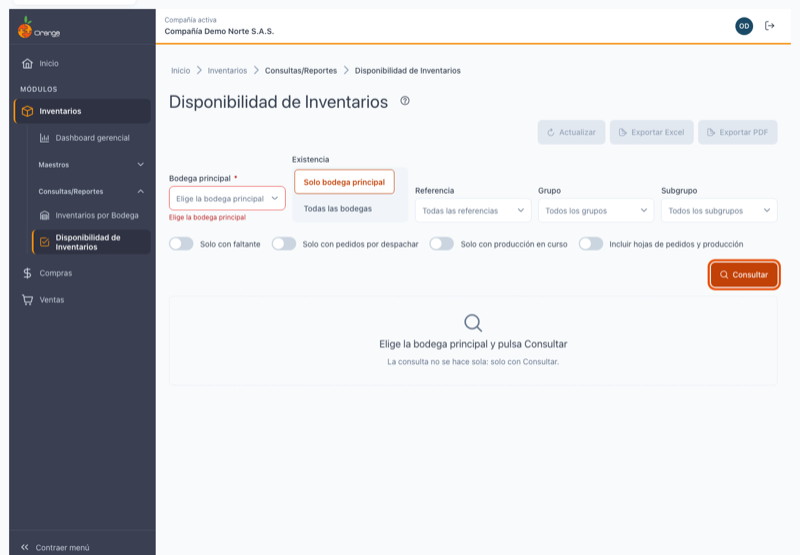
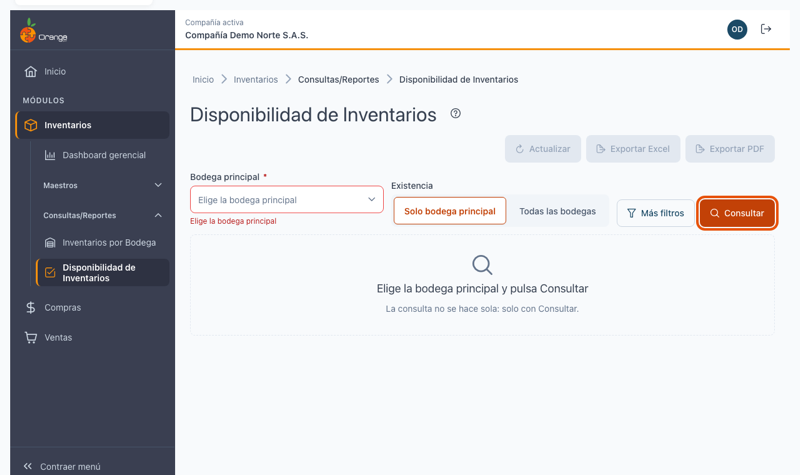
docs(inventarios): manual de Disponibilidad reorganizado para la vista dividida, congelados ocultos por defecto y 6 capturas verificadas

diff --git a/v2026/inventarios/consultas/disponibilidad.md b/v2026/inventarios/consultas/disponibilidad.md
@@ -5,256 +5,167 @@
 # 📦 Disponibilidad de Inventarios
 
 ![Static Badge](https://img.shields.io/badge/Tipo-Consulta-red)
-![Static Badge](https://img.shields.io/badge/Module-Inventarios-orange)
-![Static Badge](https://img.shields.io/badge/Submodule-Consultas%2FReportes-blue)
-![Static Badge](https://img.shields.io/badge/Opcion-Disponibilidad%20de%20Inventarios-green)
+![Static Badge](https://img.shields.io/badge/Modulo-Inventarios-orange)
+![Static Badge](https://img.shields.io/badge/Submodulo-Consultas%2FReportes-blue)
 ![Static Badge](https://img.shields.io/badge/Version-V2026-purple)
 
-![Static Badge](https://img.shields.io/badge/Actualizacion-20261007-yellow)
+---
+
+## 🎯 Qué es y para qué sirve
+
+Muestra, por referencia y por variante (talla, color, etc.), **cuánto hay hoy, cuánto está comprometido en pedidos, cuánto viene en producción y cuánto se puede ofrecer**. Reúne en una sola pantalla la existencia, los pedidos pendientes de despachar y la producción en tránsito.
+
+**Cómo se calcula:**
+
+- **Disponible hoy** = Existencia − Por despachar
+- **Disponible proyectado** = Disponible hoy + En producción
 
 ---
 
-## 📋 Descripción
+## ℹ Antes de empezar
 
-Consulta que muestra **cuánto hay de cada referencia (por talla, color, etc.) en la bodega principal hoy, cuánto está comprometido con pedidos sin despachar, cuánto viene en producción, y por tanto qué puedo ofrecer ahora y qué podré ofrecer cuando termine la fabricación**. Es de **solo lectura**: no crea ni cambia información. Se puede abrir desde el maestro de **Referencias** con la acción "Ver disponibilidad", filtrada por esa referencia.
-
-El informe incluye **solo referencias que manejan inventario**. Los pedidos siguen las reglas del Reporte de Pedidos legado.
-
-> 📘 Funciona como las demás tablas: ver [Manejo general de la información](../../Generales/manejo-general-informacion.md).
-
-> 💡 Cada pestaña del navegador trabaja con **una compañía**. El nombre de la compañía se ve en la barra superior.
-
----
-
-## 🎯 Acceso
-
-### Desde Inventarios
-
-1. En el menú principal, haga clic en **Inventarios**.
-2. En **Consultas/Reportes**, haga clic en **Disponibilidad de Inventarios**.
-
-### Desde el maestro de Referencias
-
-En **Referencias**, cada referencia tiene una acción **Ver disponibilidad** (ícono de cuadro con check). Al pulsarla, la consulta se abre filtrada por esa referencia. Si ya tiene bodega elegida, consulta automáticamente y abre el detalle. Si no, pide elegir bodega y luego consulta.
-
-**Permisos:**
-
-| Permiso | Qué permite |
-|---------|-------------|
-| **Consultar** | Ver la pantalla y consultar. Sin él, "No tienes acceso a esta consulta". |
-| **Exportar** | Ver botones **Exportar Excel** y **Exportar PDF**. |
+| Requisito | Detalle |
+|-----------|---------|
+| **Permiso** | Opción **Disponibilidad de Inventarios**: **Consultar** (obligatorio) y **Exportar** (opcional). |
+| **Bodega principal** | Es obligatoria. El sistema recuerda la última que eligió. |
+| **Qué referencias aparecen** | Solo las que **manejan inventario**. |
+| **Información de ahora** | El informe es de este momento, no de una fecha pasada. La pantalla indica la hora del cálculo. |
 
 ---
 
-## 🖥 Pantalla principal
+## 3⃣ Cómo consultar
 
-Al entrar, la pantalla no muestra datos: elija la bodega principal y pulse **Consultar**.
+![Pantalla inicial con la bodega principal, la existencia y los filtros](../recursos/img/disponibilidad/01-inicial.png)
 
-![Pantalla inicial](../recursos/img/disponibilidad/01-inicial.png)
+1. Elija la **Bodega principal**.
+2. Elija la **Existencia**: **Solo bodega principal** (por defecto) o **Todas las bodegas**.
+3. Si lo necesita, abra **Más filtros**: referencia, grupo y subgrupo; **Solo con faltante**, **Solo con pedidos por despachar**, **Solo con producción en curso**; y **Qué se cuenta** (ver más abajo).
+4. Pulse **Consultar**.
 
-| Elemento | Para qué sirve |
-|----------|----------------|
-| **?** (junto al título) | Abre esta ayuda en un panel lateral. |
-| **Calculado a las HH:MM** | Hora del cálculo. |
-| **Actualizar** | Recalcula si han pasado 60+ segundos. Ver *El día en curso*. |
-| **Exportar Excel** / **Exportar PDF** | Descargan todo lo filtrado. Deshabilitados sin resultados. |
-| **Bodega principal** | **Obligatoria.** El sistema la recuerda. |
-| **Existencia: Solo bodega principal / Todas las bodegas** | Por defecto solo la principal. Active para incluir todas. |
-| **Referencia, Grupo, Subgrupo** | Filtros por búsqueda. |
-| **Solo con faltante, Solo con pedidos, Solo con producción** | Interruptores para ver referencias que tienen ese estado. |
-| **Consultar** | Trae el resultado. |
+**Cálculo en segundo plano.** Si no hay un cálculo reciente, el sistema lo prepara y puede tardar unos segundos. Cuando termina, le avisa en las notificaciones.
+
+**Actualizar.** Vuelve a leer los datos. Si otra persona cambia información mientras usted consulta, aparece el aviso **"Hay cambios desde las HH:MM"** con el botón **Actualizar**; la pantalla no se actualiza sola.
 
 ---
 
-## 📊 Leer el resultado
+## 📊 Leer la lista
 
-### Grilla por referencia
+![Vista dividida: lista de referencias a la izquierda y detalle de la variante seleccionada a la derecha, con el aviso de pedidos congelados ocultos](../recursos/img/disponibilidad/02-vista-dividida.png)
 
-![Resultado: referencias con variantes colapsadas](../recursos/img/disponibilidad/02-referencias-expandidas.png)
+La lista tiene **una fila por referencia** con las cifras sumadas de todas sus variantes. Cada fila muestra:
 
-La tabla muestra **una fila por referencia**, con cifras **sumadas de todas sus variantes**:
+| Dato | Qué significa |
+|------|---------------|
+| **Referencia** | Código y nombre, con el número de variantes. Pulse la flecha para ver las variantes debajo. |
+| **Disponible hoy** | Existencia menos lo que falta por despachar. |
+| **Disponible proyectado** | Disponible hoy más lo que viene en producción. |
+| **Estado** | Ver abajo. |
 
-- **Referencia**: código y nombre.
-- **Variantes**: cuántas tallas, colores, etc. ("3", o "100 de 108" con botón "Ver las 8 restantes").
-- **Existencia**: total en la bodega principal (o todas si lo activó).
-- **Por despachar**: saldo pendiente sumado.
-- **Disponible hoy**: Existencia − Por despachar.
-- **En producción**: en fabricación, no recibido.
-- **Disponible proyectado**: Disponible hoy + En producción.
-- **Estado**: el **peor** de todas las variantes + "1 de 3 variantes en faltante" (u otra cifra).
+**Estados** (siempre con texto e ícono):
 
-Números negativos con signo "−".
+- ✅ **Disponible**: alcanza con lo que hay hoy.
+- ⏳ **Cubierto con producción**: hoy no alcanza, pero la producción en tránsito lo cubre.
+- ⚠ **Faltante**: no alcanza ni con la producción.
 
-### Expandir variantes
+El estado de una referencia es **el peor de sus variantes**, con el texto "N de M variantes en faltante": que sobre una talla no tapa el faltante de otra.
 
-Haga clic en **▶** para ver sus variantes debajo (p.ej. "M / NEG", "L / NEG"). Botones **Expandir todas** / **Colapsar todas** arriba de la grilla.
-
-Expandir **no abre el detalle**: solo muestra las variantes.
-
-### Seleccionar referencia o variante
-
-**Clic en la referencia (fila principal):** detalle de **toda la referencia** (cifras sumadas, columna "Variante" en las tablas). Título: "CAM-BAS-001 · toda la referencia (3 variantes)".
-
-**Clic en variante (fila con sangría):** detalle de **solo esa variante**. Título: "CAM-BAS-001 · M / NEG".
-
-Una sola selección a la vez. Seleccionar otra cierra la anterior.
-
-### Detalle con tabs
-
-El detalle aparece debajo con tres tabs: **Pedidos · Producción · Otras bodegas**, cada una con contador (p.ej. "Pedidos (3)").
-
-**Solo la tab activa consulta** (más rápido). Las demás consultan cuando las activa.
-
-**Tab por defecto:** Pedidos si hay; si no, Producción; si no, Otras bodegas. Se recuerda durante la sesión.
-
-**Pedidos:** documento, cliente, sucursal·vendedor, fechas, cantidades (Pedido/Despachado/Falta), estado. Con alcance **referencia**, columna "Variante" (qué talla). Total en el pie.
-
-**Producción:** orden, etapa actual (Corte, Costura, etc.), fechas, cantidades (Planeada/Recibida/Pendiente). **"OP sin entradas registradas"** en rojo: la planta no ha registrado entradas, el tránsito puede estar inflado. Total en el pie.
-
-**Otras bodegas:** bodega (la principal marcada) y existencia. Con alcance referencia, columna "Variante" (fila por variante y bodega). Totales.
-
-![Detalle en modo tableta con tabs](../recursos/img/disponibilidad/04-detalle-tabs-tableta.png)
-
-### Navegar
-
-- **Orden:** clic en encabezado de columna.
-- **Búsqueda:** escriba (≥ 2 caracteres) para filtrar referencias. Al expandir, las que coinciden quedan resaltadas "Coincide con el filtro".
-- **Cambiar filtro/página/tamaño/orden/búsqueda:** cierra detalle y colapsa referencias.
-- **Actualizar:** conserva detalle, expansión y tab. Recarga solo la tab visible.
-  - Si la selección desaparece: cierra con aviso "La selección ya no aparece en el resultado".
+**Filtros rápidos.** Arriba de la lista, los botones **Faltante**, **Cubierto con producción** y **Disponible** muestran cuántas referencias hay en cada estado y sirven de filtro. **Totales del filtro** (plegable) resume las cifras de todo el resultado.
 
 ---
 
-## 🎨 Estados: Disponible, Cubierto con producción, Faltante
+## 👁 Ver el detalle
 
-El estado de la referencia es el **peor de sus variantes**:
+Haga clic en una **referencia** para ver el detalle de **toda la referencia**, o en una **variante** para ver solo esa variante. También sirve el botón **Detalle** de la fila.
 
-| Estado | Cuándo |
-|--------|--------|
-| **Disponible** ✓ | Todas las variantes tienen disponible hoy ≥ 0. |
-| **Cubierto con producción** ⏱ | Al menos una tiene hoy < 0 pero proyectado ≥ 0 (con producción se cubre). |
-| **Faltante** ⚠ | Al menos una tiene proyectado < 0 (falta incluso con producción). |
+![Detalle de toda la referencia con la fórmula de disponibilidad y las tabs Pedidos, Producción y Otras bodegas](../recursos/img/disponibilidad/03-tabs-detalle.png)
 
-Lleva "1 de 3 variantes en faltante" u otra combinación: cuántas variantes tienen ese estado.
+**Dónde se ve el detalle:**
 
----
+| Pantalla | Cómo se ve |
+|----------|------------|
+| **Ancha** (desde 1280 px) | Lista a la izquierda y detalle fijo a la derecha. |
+| **Tableta** | Una sola vista a la vez: al abrir el detalle ocupa la pantalla con el botón **Volver a la lista**. |
+| **Móvil** | Igual que en tableta, con la lista en tarjetas. |
 
-## 🏭 Qué cuenta: Pedidos y Órdenes de Producción
+![Consulta en tableta: una sola vista a la vez](../recursos/img/disponibilidad/05-tableta.png)
 
-### Pedidos (Por despachar)
+![Consulta en móvil con tarjetas](../recursos/img/disponibilidad/06-movil.png)
 
-- Opción 56 (Ventas › Pedidos).
-- No anulados, fecha ≤ hoy, saldo > 0 por línea.
-- **Congelados siempre cuentan** (se marcan en el detalle).
-- Sumadas por variante.
+**Encabezado del detalle.** Muestra la fórmula: Existencia − Por despachar = Disponible hoy, y Disponible hoy + En producción = Disponible proyectado.
 
-**Despachado:** facturas de venta + devoluciones (opción 67), por pedido y variante. **Remisiones NO cuentan** (solo factura).
+**Tres tabs**, con el número de registros de cada una:
 
-**Saldo = Cantidad − Despachado.**
+1. **Pedidos**: pedido y cliente, fecha y antigüedad, y una barra con lo despachado frente a lo pedido y lo que **falta**.
+2. **Producción**: orden de producción, etapa actual, fecha estimada de entrega, y lo recibido frente a lo planeado y lo pendiente. Si la orden no tiene ninguna entrada registrada aparece la advertencia **"OP sin entradas registradas"**: en ese caso lo que viene en producción puede estar sobrestimado.
+3. **Otras bodegas**: la existencia en cada bodega, con una barra proporcional. La bodega principal está marcada.
 
-### Órdenes de Producción (En producción)
+Se abre primero la **primera tab con datos** (Pedidos, luego Producción y luego Otras bodegas), y el sistema recuerda la última que usó durante la sesión.
 
-- Activas, no canceladas, no congeladas.
-- Pendiente > 0 después de restar entradas recibidas.
-- Sumadas por variante.
+**Cerrar el detalle:** botón **Cerrar detalle**, tecla **Esc**, **Volver a la lista** o el botón **Atrás** del navegador. Al volver, la lista conserva sus filtros, las referencias expandidas y la fila seleccionada.
 
-**Advertencia "OP sin entradas registradas":** orden en el sistema pero planta sin entradas → tránsito puede estar sobrestimado.
+**Compartir.** La dirección de la página incluye la referencia (y la variante) que está viendo: puede copiarla y enviarla a otra persona con permiso.
 
 ---
 
-## 📅 El día en curso
+## 🏭 Qué se cuenta
 
-Siempre de hoy. Botón **Actualizar** si han pasado 60+ segundos. Información puede cambiar mientras se registran movimientos.
+![Más filtros con el interruptor Incluir pedidos congelados](../recursos/img/disponibilidad/04-congelados-ocultos.png)
 
-![Actualizar](../recursos/img/disponibilidad/05-actualizar.png)
+| Concepto | Regla |
+|----------|-------|
+| **Pedidos** | Pedidos de venta no anulados, con saldo por despachar. |
+| **Pedidos congelados** | **No se muestran ni se cuentan por defecto.** En **Más filtros › Qué se cuenta** puede activar **Incluir pedidos congelados**; entonces se cuentan y aparecen marcados como *Congelado*. Cuando hay pedidos ocultos, la lista avisa: **"Se ocultó N línea(s) de pedido congelada(s) (M unidades)"**, con el botón **Incluirlos**. |
+| **Despachado** | Lo facturado menos las devoluciones, por pedido y variante. Las remisiones **no** cuentan como despacho. |
+| **Órdenes de producción** | Activas, no canceladas y no congeladas, con cantidad pendiente de recibir. |
+| **Recibido** | Las entradas registradas con esa orden de producción. |
 
----
-
-## ⏳ Cálculo en segundo plano
-
-Primera consulta del día o Actualizar pueden tardar. Pantalla dice "Calculando..." y puede seguir trabajando. Aviso en la **campana** cuando termine.
-
-![Calculando](../recursos/img/disponibilidad/06-calculando.png)
+**Diferencia con el Reporte de Pedidos.** Calcula pedidos y despachos con la misma regla, salvo por dos puntos: aquí los pedidos congelados quedan ocultos por defecto y solo aparecen las referencias que manejan inventario.
 
 ---
 
 ## 📤 Exportar a Excel y PDF
 
-Con permiso **Exportar**, descargar todo lo filtrado (no solo página).
+Con el permiso **Exportar** aparecen los botones **Exportar Excel** y **Exportar PDF**. Respetan los filtros, la búsqueda y el orden de la pantalla, y también la opción de pedidos congelados.
 
-**Incluir hojas de pedidos y producción:** Excel extra con detalles.
+| Formato | Contenido | Máximo |
+|---------|-----------|--------|
+| **Excel** | Una sección por referencia, con su subtotal y sus variantes debajo. Con **Incluir hojas de pedidos y producción** agrega las hojas "Pedidos" y "Producción". | 50.000 filas (referencias y variantes) |
+| **PDF** | Lo mismo en hoja oficio horizontal, sin las hojas de detalle. | 4.000 filas (referencias y variantes) |
 
-| Formato | Máximo |
-|---------|--------|
-| **Excel** | 50.000 (ref. + variantes) |
-| **PDF** | 4.000 (ref. + variantes) |
-
-Si excede: filtre y reexporte.
+Si el resultado supera el máximo, el sistema se lo indica: filtre más y vuelva a exportar.
 
 ---
 
-## 💡 Fórmula y ejemplo
+## 🔗 Entrar desde Referencias
 
-**Disponible hoy = Existencia − Por despachar**
+En el maestro **Referencias**, cada referencia tiene la acción **Ver disponibilidad** (solo si usted tiene permiso de consultar este informe).
 
-**Disponible proyectado = Disponible hoy + En producción**
-
-**Referencia CAM-BAS-001 (3 variantes):**
-
-| Concepto | M/NEG | L/NEG | S/BLA | **TOTAL** |
-|----------|-------|-------|-------|-----------|
-| Existencia | 12 | 8 | 0 | **20** |
-| Por despachar | 30 | 0 | 20 | **50** |
-| Disponible hoy | −18 | 8 | −20 | **−30** |
-| En producción | 30 | 0 | 0 | **30** |
-| Disponible proyectado | 12 | 8 | −20 | **0** |
-| **Estado** | **Cubierto** | **Disponible** | **Faltante** | **Faltante (1 de 3)** |
-
----
-
-## 📱 Responsive
-
-- **Tableta (768 px):** columnas secundarias ocultas.
-- **Móvil (≤ 640 px):** tarjetas anidadas; detalle a pantalla completa con **Volver a la lista**; tabs en fila con scroll.
-
-![Móvil](../recursos/img/disponibilidad/07-detalle-movil.png)
+- Con **bodega principal recordada**, el informe consulta solo y deja la referencia abierta con su detalle.
+- Sin bodega recordada, le pide elegirla y luego consulta.
+- Una referencia que **no maneja inventario** muestra un aviso claro.
+- Para regresar use **Volver a Referencias**: vuelve al maestro donde estaba, con la fila y el foco en esa referencia.
 
 ---
 
 ## ❓ Preguntas frecuentes
 
-**¿Desde dónde puedo abrir esta consulta?**
-Desde **Inventarios** › **Disponibilidad de Inventarios**, o desde **Referencias** con botón "Ver disponibilidad" en cada fila.
+**¿Cómo veo las variantes de una referencia?**
+Pulse la flecha de la fila de la referencia. También puede usar **Expandir todas**.
 
-**¿Cómo funcionan las variantes?**
-La tabla suma todas las variantes (tallas, colores) en una fila de referencia. Haga clic en **▶** para verlas y **clic en una variante** para ver solo esa.
+**¿Por qué "Disponible hoy" es negativo?**
+Hay más pedidos por despachar que existencia. Si "Disponible proyectado" es positivo, la producción en tránsito lo cubre y el estado es *Cubierto con producción*.
 
-**¿Qué es el estado de referencia?**
-El **peor** de sus variantes: si una está "Faltante", la referencia es "Faltante". Muestra "1 de 3 variantes en faltante", etc.
+**¿Por qué no veo ciertos pedidos?**
+Si están congelados no se muestran por defecto. Active **Incluir pedidos congelados** en **Más filtros**.
 
-**¿Los pedidos congelados cuentan?**
-Sí, siempre. Se marcan como "Congelado" en el detalle.
+**¿Qué es "OP sin entradas registradas"?**
+La orden de producción está abierta pero no tiene ninguna entrada registrada. Lo que muestra como pendiente puede ser mayor al real; conviene confirmarlo con producción.
 
-**¿Las remisiones cuentan como despacho?**
-No. Solo facturas de venta (y devoluciones).
+**¿Por qué mi informe no coincide con el Reporte de Pedidos?**
+Los pedidos congelados están ocultos por defecto y solo se incluyen las referencias que manejan inventario.
 
-**¿Qué tab se abre por defecto?**
-La primera con datos: Pedidos, o Producción, o Otras bodegas (en ese orden). Se recuerda durante la sesión.
-
-**¿Cómo afecta "Actualizar" a mi detalle abierto?**
-Conserva: detalle, expansión, tab. Recarga solo la tab visible. Si la selección desaparece, cierra con aviso.
-
-**¿Puedo cambiar filtros sin cerrar el detalle?**
-No. Cambiar filtro/página/orden/búsqueda cierra el detalle. **Actualizar** lo conserva.
-
-**¿Por qué pide bodega si abro "Ver disponibilidad" desde Referencias?**
-Es la primera vez que consulta. El sistema la recuerda después.
-
-**¿Qué referencias aparecen?**
-Solo que **manejan inventario**. Las que no (servicios) no cuentan.
-
-**¿Qué es "Variantes: 100 de 108 · Ver las 8 restantes"?**
-La referencia tiene 108 variantes; se muestran 100 en la página. Botón para ver las 8 que falta.
+**¿Por qué no aparece una referencia?**
+Solo se muestran las que manejan inventario y tienen existencia, pedidos por despachar o producción en tránsito.
 
 ---
 
